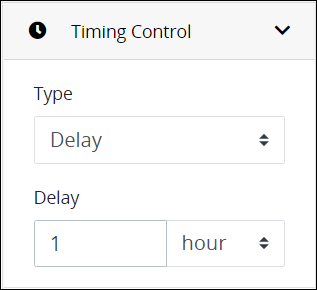
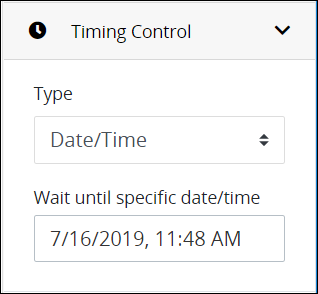
GitBook: [processmaker] one page and 2 assets modified

diff --git a/designing-processes/process-design/model-your-process/add-and-configure-intermediate-timer-event-elements.md b/designing-processes/process-design/model-your-process/add-and-configure-intermediate-timer-event-elements.md
@@ -120,13 +120,9 @@ Follow these steps to set the timer controls for an Intermediate Timer Event ele
 
      ![](../../../.gitbook/assets/intermediate-timer-timing-control-wait-process-modeler-processes.png)
 
-     Do the following:
+     From the **Wait until specific date/time** field, use the date control to select the date to trigger the Intermediate Timer Event element. If this field has not been previously set, the current date is the default.  
 
-     * From the **Wait until specific date/time** field, use the date control to select the date to trigger the Intermediate Timer Event element. If this field has not been previously set, the current date is the default.  
-
-       ![](../../../.gitbook/assets/intermediate-timer-event-date-control-process-modeler-processes.png)
-
-     * Below the **Wait until specific date/time** field, set the hour of that date to trigger the Intermediate Timer Event element.
+     ![](../../../.gitbook/assets/intermediate-timer-event-date-control-process-modeler-processes.png)
 
 ## Related Topics
 
